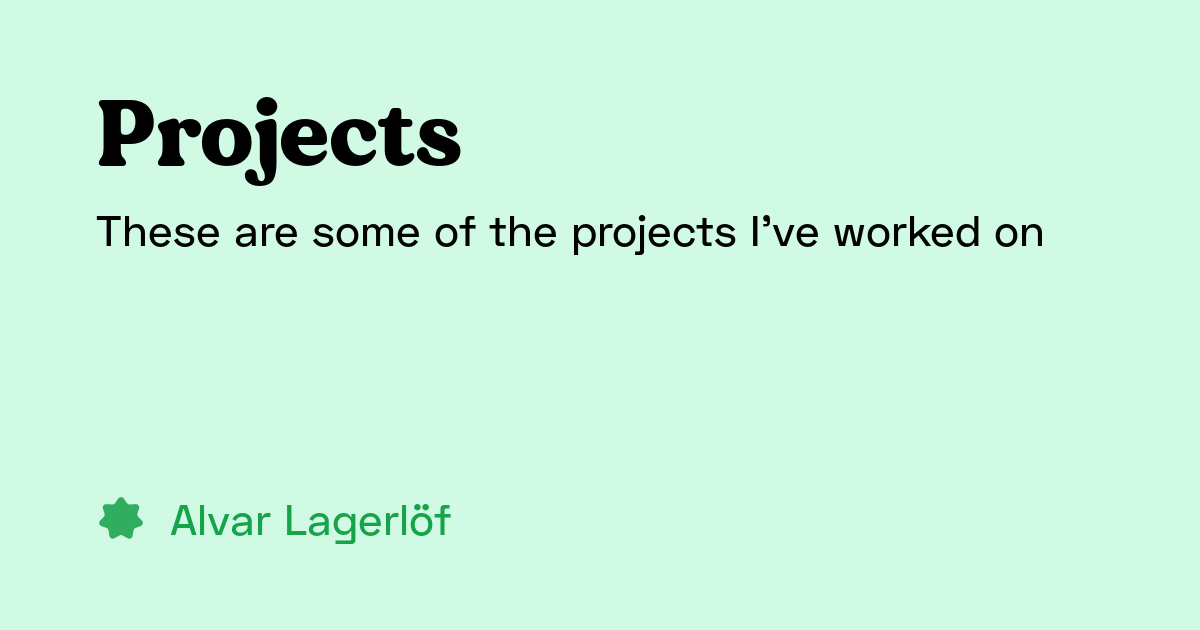
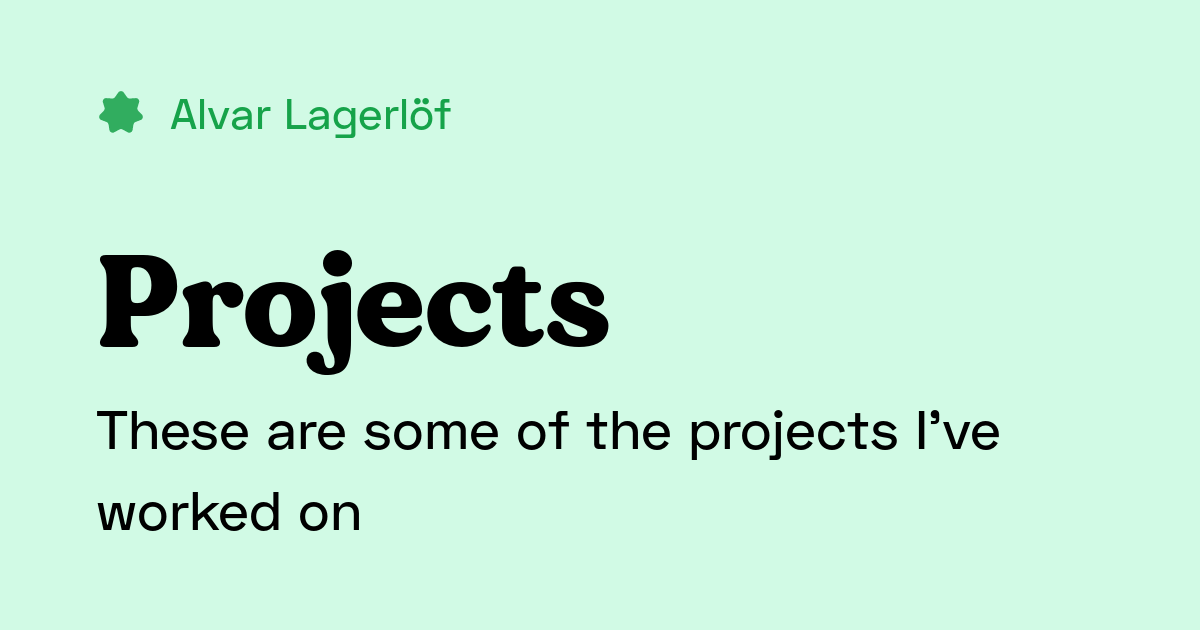
Different og:image for blog

diff --git a/pages/_ogimage/default.tsx b/pages/_ogimage/default.tsx
@@ -4,21 +4,23 @@ import { useData } from "next-opengraph-image";
 export default function Default() {
   const { title, description } = useData({
     placeholder: {
-      title: "This is a placeholder title",
-      description: "Placeholder description that is a little longer and spans lines",
+      title: "Alvar Lagerlöf",
+      description: "Developer and designer from Stockholm",
     },
   });
 
   return (
     <div className="w-[1200px] h-[630px] fixed top-0 left-0 bg-green-100 py-20 px-24 flex flex-col justify-between">
-      <div className="space-y-2">
-        <h1 className="font-heading text-[5.7em] leading-[1.2]">{title}</h1>
-        <h2 className="font-subheading text-[2.7em]">{description}</h2>
-      </div>
-
       <div className="flex flex-row space-x-6">
         <Image src="/icons/star.svg" alt="" width="50px" height="50px" />
-        <h3 className="font-subheading font-medium text-primary text-[2.7em]">Alvar Lagerlöf</h3>
+        {title != "Alvar Lagerlöf" && (
+          <h3 className="font-subheading font-medium text-primary text-[2.7em]">Alvar Lagerlöf</h3>
+        )}
+      </div>
+
+      <div className="space-y-2">
+        <h1 className="font-heading text-[8em] leading-[1.2]">{title}</h1>
+        <h2 className="font-subheading text-[3.4em]">{description}</h2>
       </div>
     </div>
   );

diff --git a/pages/_ogimage/blogpost.tsx b/pages/_ogimage/blogpost.tsx
@@ -1,0 +1,32 @@
+import Image from "next/image";
+import { useData } from "next-opengraph-image";
+
+export default function Default() {
+  const { title, description } = useData({
+    placeholder: {
+      title: "This is a placeholder title",
+      description: "Placeholder description that is a little longer and spans lines",
+    },
+  });
+
+  return (
+    <div className="w-[1200px] h-[630px] fixed top-0 left-0 bg-green-100 py-20 px-24 flex flex-col justify-between">
+      <div className="space-y-2">
+        <h1 className="font-heading text-[5.7em] leading-[1.2]">{title}</h1>
+        <h2 className="font-subheading text-[2.7em]">{description}</h2>
+      </div>
+
+      <div className="flex flex-row justify-between">
+        <div className="flex flex-row items-center space-x-6">
+          <div className="rounded-full overflow-hidden w-16 h-16">
+            <Image src="/profile.png" alt="" width="100px" height="100px" />
+          </div>
+          <h3 className="font-subheading font-medium text-primary text-[2.7em]">
+            By Alvar Lagerlöf
+          </h3>
+        </div>
+        <Image src="/icons/star.svg" alt="" width="50px" height="50px" />
+      </div>
+    </div>
+  );
+}

diff --git a/components/Meta.tsx b/components/Meta.tsx
@@ -2,8 +2,8 @@ import Head from "next/head";
 
 import { useOgImage } from "next-opengraph-image";
 
-export default function Meta({ title, description }) {
-  const ogImage = useOgImage();
+export default function Meta({ title, description, ogImageLayout = "default" }) {
+  const ogImage = useOgImage({ layout: ogImageLayout });
 
   return (
     <Head>

diff --git a/pages/blog/[slug].tsx b/pages/blog/[slug].tsx
@@ -15,7 +15,7 @@ type PostProps = {
 export default function BlogPost({ post }: PostProps) {
   return (
     <>
-      <Meta title={post.title} description={post.description} />
+      <Meta title={post.title} description={post.description} ogImageLayout="blogpost" />
 
       <WithDividers direction="vertical">
         <Header post={post} />
